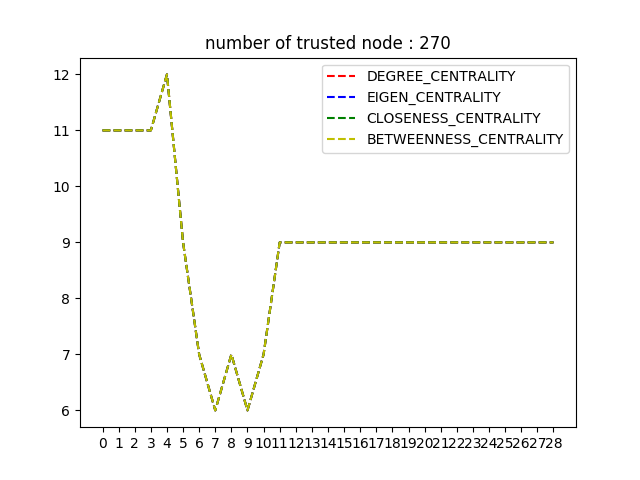
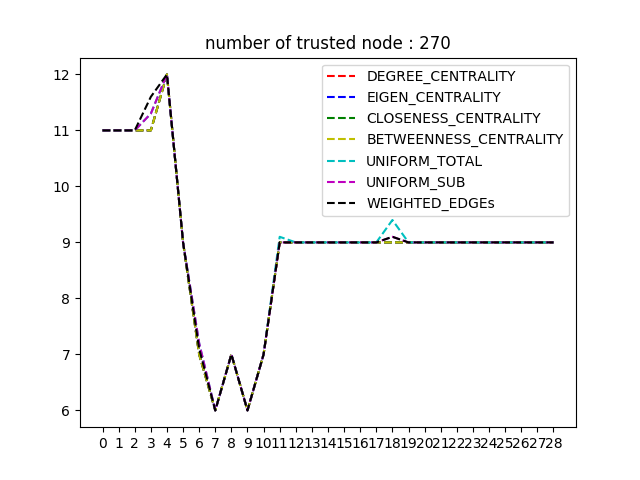
New changes

diff --git a/Graph.py b/Graph.py
@@ -46,11 +46,11 @@ def alg_compare_graph(result_dict):
             elif alg_label == 3:
                 plt.plot(list(range(len(rounds_list))), rounds_list, 'y--', label='BETWEENNESS_CENTRALITY')
             elif alg_label == 4:
-                plt.plot(list(range(len(rounds_list))), rounds_list, 'p--', )
+                plt.plot(list(range(len(rounds_list))), rounds_list, 'c--', label='UNIFORM_TOTAL')
             elif alg_label == 5:
-                plt.plot(list(range(len(rounds_list))), rounds_list, 'm--', )
+                plt.plot(list(range(len(rounds_list))), rounds_list, 'm--', label='UNIFORM_SUB')
             elif alg_label == 6:
-                plt.plot(list(range(len(rounds_list))), rounds_list, 'k--', )
+                plt.plot(list(range(len(rounds_list))), rounds_list, 'k--', label='WEIGHTED_EDGEs')
         plt.xticks(np.arange(0, len(rounds_list), 1.0))
         plt.legend(loc='best')
         plt.title(f"number of trusted node : {num_trusted}")
@@ -58,6 +58,16 @@ def alg_compare_graph(result_dict):
         plt.clf()
 
 
+# key: number of trusted
+# value: small dict:
+    # key: algorithm name
+    # number of rounds
 if __name__ == '__main__':
-    result_dict = pickle.load(open("/Users/yingjianwu/Desktop/broadcast/Broadcast_py/result_dict.pickle", "rb"))
+    result_dict = pickle.load(open("/Users/yingjianwu/Desktop/broadcast/Broadcast_py/result_dict_0123.pickle", "rb"))
+    result_dict_456 = pickle.load(open("/Users/yingjianwu/Desktop/broadcast/Broadcast_py/result_dict_456.pickle", "rb"))
+
+    for k, v in result_dict_456.items():
+        small_dict_in_result_dict = result_dict[k]
+        for a, b in v.items():
+            small_dict_in_result_dict[a] = b
     alg_compare_graph(result_dict)
